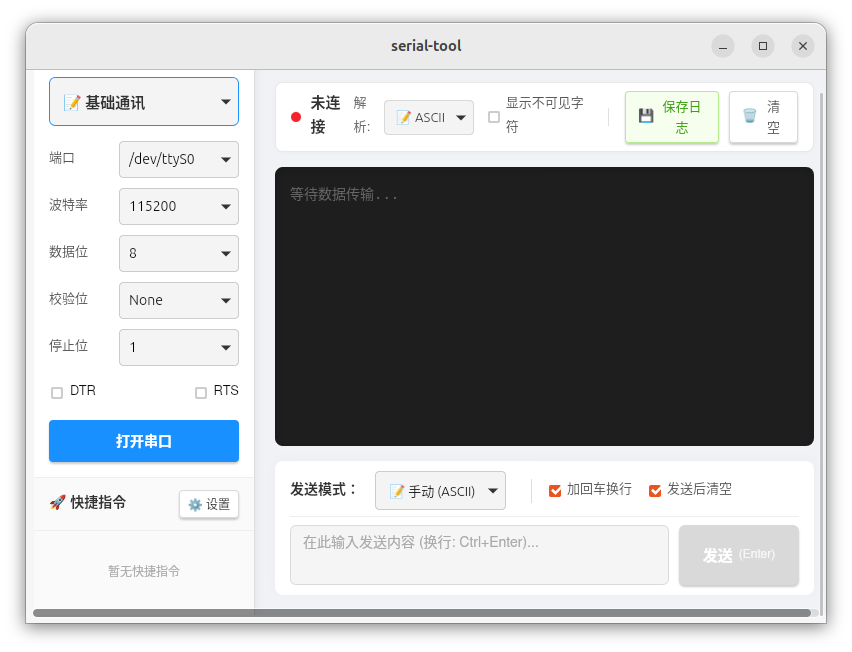
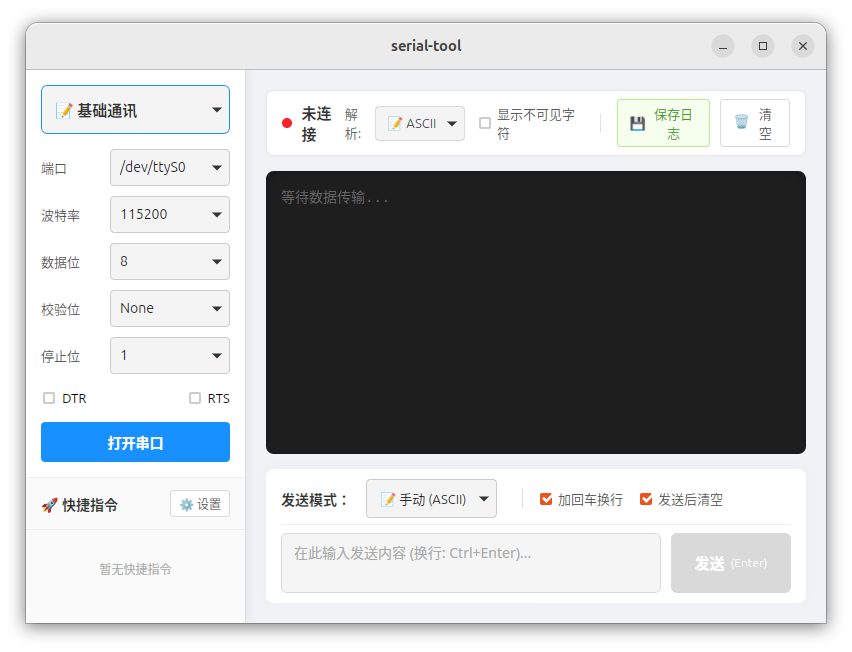
消除滚动条

diff --git a/src/App.css b/src/App.css
@@ -1,116 +1,34 @@
-.logo.vite:hover {
-  filter: drop-shadow(0 0 2em #747bff);
-}
+/* 📁 路径: src/App.css */
 
-.logo.react:hover {
-  filter: drop-shadow(0 0 2em #61dafb);
-}
-:root {
-  font-family: Inter, Avenir, Helvetica, Arial, sans-serif;
-  font-size: 16px;
-  line-height: 24px;
-  font-weight: 400;
-
-  color: #0f0f0f;
-  background-color: #f6f6f6;
-
-  font-synthesis: none;
-  text-rendering: optimizeLegibility;
-  -webkit-font-smoothing: antialiased;
-  -moz-osx-font-smoothing: grayscale;
-  -webkit-text-size-adjust: 100%;
-}
-
-.container {
+/* 1. 清除浏览器默认边距，让根节点占满全屏且不滚动 */
+html, body, #root {
   margin: 0;
-  padding-top: 10vh;
-  display: flex;
-  flex-direction: column;
-  justify-content: center;
-  text-align: center;
+  padding: 0;
+  width: 100%;
+  height: 100%;
+  overflow: hidden; /* 彻底屏蔽浏览器原生的整体滚动条 */
 }
 
-.logo {
-  height: 6em;
-  padding: 1.5em;
-  will-change: filter;
-  transition: 0.75s;
+/* 2. 强制所有元素在计算宽度时包含 padding 和 border */
+* {
+  box-sizing: border-box;
 }
 
-.logo.tauri:hover {
-  filter: drop-shadow(0 0 2em #24c8db);
+/* 3. 美化滚动条 (可选，让界面的滚动条更符合现代桌面软件风格) */
+::-webkit-scrollbar {
+  width: 8px;
+  height: 8px;
 }
 
-.row {
-  display: flex;
-  justify-content: center;
+::-webkit-scrollbar-track {
+  background: transparent;
 }
 
-a {
-  font-weight: 500;
-  color: #646cff;
-  text-decoration: inherit;
+::-webkit-scrollbar-thumb {
+  background: #c1c1c1;
+  border-radius: 4px;
 }
 
-a:hover {
-  color: #535bf2;
-}
-
-h1 {
-  text-align: center;
-}
-
-input,
-button {
-  border-radius: 8px;
-  border: 1px solid transparent;
-  padding: 0.6em 1.2em;
-  font-size: 1em;
-  font-weight: 500;
-  font-family: inherit;
-  color: #0f0f0f;
-  background-color: #ffffff;
-  transition: border-color 0.25s;
-  box-shadow: 0 2px 2px rgba(0, 0, 0, 0.2);
-}
-
-button {
-  cursor: pointer;
-}
-
-button:hover {
-  border-color: #396cd8;
-}
-button:active {
-  border-color: #396cd8;
-  background-color: #e8e8e8;
-}
-
-input,
-button {
-  outline: none;
-}
-
-#greet-input {
-  margin-right: 5px;
-}
-
-@media (prefers-color-scheme: dark) {
-  :root {
-    color: #f6f6f6;
-    background-color: #2f2f2f;
-  }
-
-  a:hover {
-    color: #24c8db;
-  }
-
-  input,
-  button {
-    color: #ffffff;
-    background-color: #0f0f0f98;
-  }
-  button:active {
-    background-color: #0f0f0f69;
-  }
+::-webkit-scrollbar-thumb:hover {
+  background: #a8a8a8;
 }

diff --git a/README.md b/README.md
@@ -11,7 +11,6 @@
 - 🧾 数据日志记录
 - ⚙ 波特率 / 数据位 / 校验位 / 停止位配置
 - ✨跨平台支持（Windows / Linux / macOS）
-- 📊 （开发中）示波器/波形显示
 
 ## 📌 TODO
 
